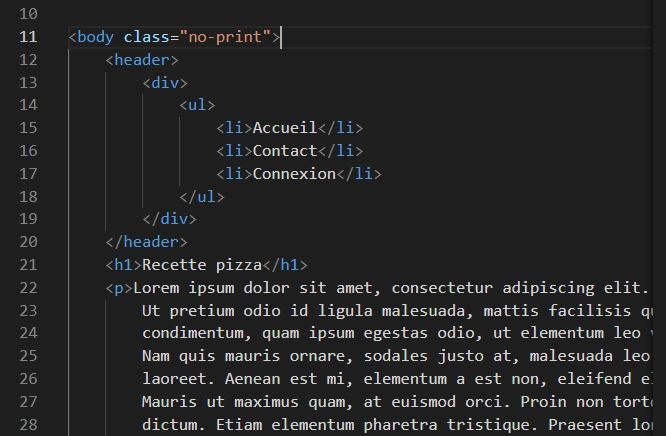
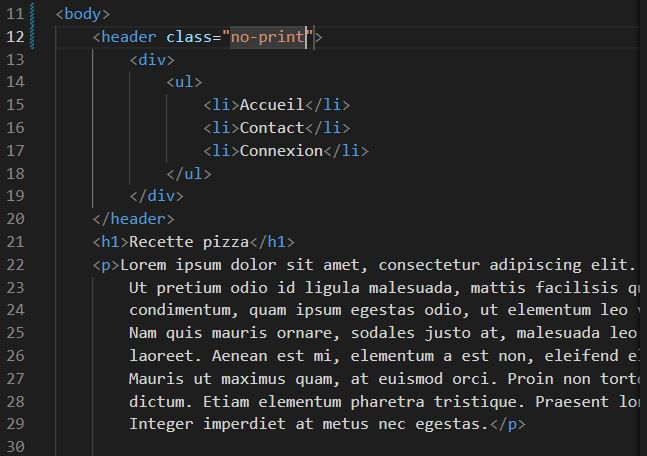
modif media

diff --git a/index.html b/index.html
@@ -8,8 +8,8 @@
     <title>Site web responsive première partie</title>
 </head>
 
-<body class="no-print">
-    <header>
+<body>
+    <header class="no-print">
         <div>
             <ul>
                 <li>Accueil</li>
@@ -28,7 +28,10 @@
         dictum. Etiam elementum pharetra tristique. Praesent lorem nisi, vestibulum vitae gravida a, tempor vel nisl.
         Integer imperdiet at metus nec egestas.</p>
 
-    <footer class="no-print">
+    <a href="">Praesent lorem nisi, vestibulum vitae gravida a, tempor vel nisl.
+        Integer imperdiet at metus nec egestas.</a>
+
+    <footer class="footer">
         <p>Copyright - 2024</p>
     </footer>
 </body>

diff --git a/style.css b/style.css
@@ -14,3 +14,24 @@ Les types de media queries
         display: none;
     }
 }
+
+@media screen {
+    .footer {
+        border: solid 5px red;
+    }
+}
+
+a {
+    font-weight: bold;
+    margin-bottom: 25px;
+    display: block;
+}
+
+/*
+Les caractéristiques de média (Media feature).
+- width
+- height
+- max-width
+- min-width
+- orientation
+*/

diff --git a/README.md b/README.md
@@ -3,8 +3,8 @@ Pour créer un site web la première chose qu'on a besoin c'est la page index.ht
 
 ![](/images/index.JPG)
 
-Sur cette page index.html, la première chose à faire, à la deuxième ligne, changer "en" en "fr" pour le site en français, à la sixième ligne c'est cette ligne qui permet d'avoir le site responsive, à la septième ligne je vais changer le titre "Document" en "Site web responsive première partie", ensuite il faut intégrer le fichier CSS qu'on a besoin pour le style.
-Le fichier CSS n'existe pas encore je dois en créer.
+Sur cette page index.html, la première chose à faire, à la deuxième ligne, changer "en" en "fr" pour le site en français, à la sixième ligne c'est cette ligne qui permet d'avoir le site responsive, à la septième ligne je vais changer le titre "Document" en "Site web responsive première partie", ensuite il faut intégrer le fichier style.css qu'on a besoin pour le style.
+Le fichier style.css n'existe pas encore je dois en créer.
 
 ### la page index.html modifié avec style.css intégré.
 
@@ -23,11 +23,11 @@ Je vais ouvrir le navigateur pour tester le lien de mon fichier style.css.
 Mon fichier style.css est bien lié, je peux maintenant continuer à coder.
 
 ### Media Queries.
-lien du site media queries.
+lien du site média queries.
 
 [Media queries](https://developer.mozilla.org/fr/docs/Web/CSS/CSS_media_queries/Using_media_queries#all)
 
-### Type de media queries.
+### Type de média queries.
 - all
 - screen
 - print
@@ -47,11 +47,11 @@ fichier style.css
     }   
 }
 ```
-La page à imprimer sans menu et la couleur du fond est blanche, le media de type print fonctionne bien.
+La page à imprimer est sans menu et la couleur du fond est blanche, le média queries de type print fonctionne bien.
 
 ![](/images/mediaTypePrint.JPG)
 
-Si maintenant je ne voulais interdire d'imprime la recette.
+Si maintenant je voulais interdire d'imprimer la recette.
 
 fichier style.css
 ```
@@ -61,10 +61,71 @@ fichier style.css
     }
 }
 ```
-Ensuite, créer cette classe (no-print) sur les éléments qu'on voulais interdire d'imprimer, exemple sur élément (body).
+Cette classe (no-print) il faut en créer et appliquer cette dernière (no-print) sur les éléments qu'on voulais interdire d'imprimer, exemple sur élément (header).
+
+fichier index.html
 ![](/images/classeno-print.JPG)
 
+Maintenant la classe (no-print) est fonctionnelle, ensuite, exemple de média queries de type (all) sur le footer.
 
+fichier style.css
+```
+@media all {
+    .footer{
+        border: solid 5px red; 
+    }
+}
+```
+fichier index.html
+![](/images/footerBorder.JPG)
 
+J'actualise la page index.html.
 
+![](/images/indexFooterBorder.JPG)
+
+J'ai maintenant la bordure rouge sur mon footer, je vais essayer de l'imprimer, mon footer est caché grâce à la classe (no-print).
+
+![](/images/mediaClasseNoprint.JPG)
+
+Si j'enlève la classe (no-print) sur mon footer et essayer de l'imprimer.
+
+![](/images/modifClasseFooter.JPG)
+
+J'assaie de l'imprimer, j'ai mon footer avec la bordure rouge.
+
+![](/images/footerimprimeBordure.JPG)
+
+Si je remplace le type (all) en (screen) de média queries et j'assie de l'iprimer.
+
+fichier style.css
+
+```
+@media screen {
+    .footer {
+        bordure: solid 5px red;
+    }
+}
+```
+J'ai cette fois-ci, le footer sans bordure rouge.
+
+![](/images/footerSansBordure.JPG)
+
+### Les caractéristiques de média (*Media feature*).
+Les caractéristiques média décrivent certaines caractéristiques spécifiques de l'agent utilisateur, de l'appareil d'affichage ou de l'environnement. Les expressions de caractéristique média testent leur présence ou leur valeur. Chaque expression de caractéristique doit être entourée de parenthèses.
+
+(*Je vais citer quelques uns pour ces exemples*).
+- width
+- height
+- max-width
+- min-width
+- orientation
+
+Un exemple sur (width) d'élément (body).
+
+fichier style.css
+```
+@media (width: 1200px) {
+    background-color: yellow;
+} 
+```
 
